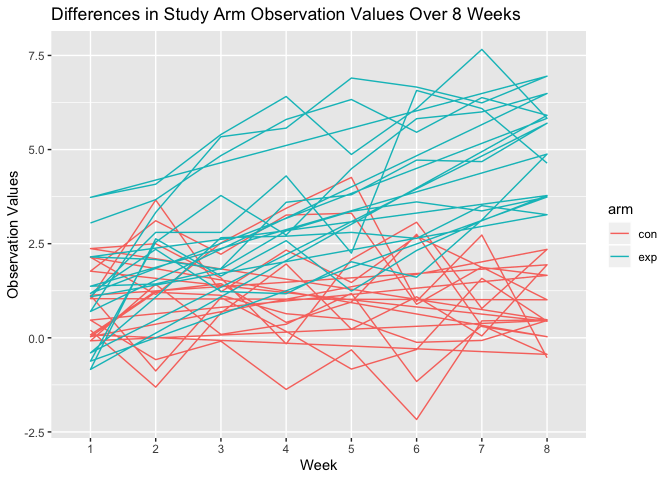
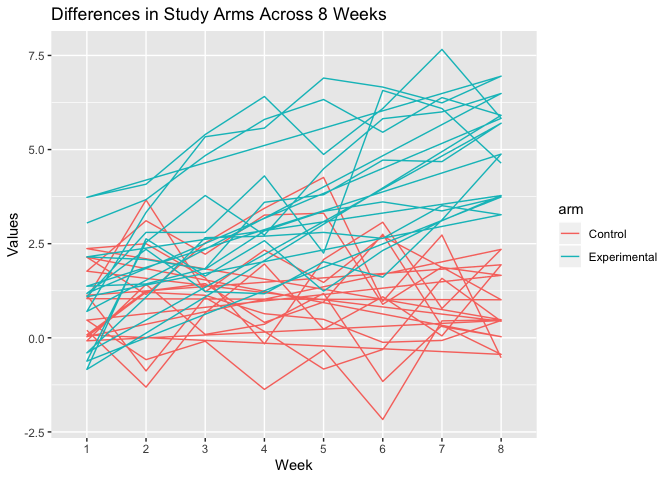
had a difficult time answering conceptual questions in problem 3, but done! committing after only running 1,000 times instead of 10,000 so need to rerun after this commit.

diff --git a/p8105_hw5_hf2379.md b/p8105_hw5_hf2379.md
@@ -5,6 +5,8 @@ Holly Finertie
 
 ## Problem 1
 
+Replace missing values in iris\_with\_missing data set.
+
 ``` r
 set.seed(10)
 
@@ -26,7 +28,15 @@ update_missing = function(x) {
 iris_no_missing = map_df(iris_with_missing, ~update_missing(.x))
 ```
 
+Successfully updated `iris_with_missing` data set so that NA entries for
+numerical variables were updated to the mean value and NA entries for
+character variables were updated to “virginica”. The new data set
+without NA values is called `iris_no_missing`.
+
 ## Problem 2
+
+Import csv files for control and experimental groups in longitudinal
+study. Then, show differences in values between arms across 8 weeks.
 
 ``` r
 read_file = function(x) {
@@ -41,7 +51,7 @@ source_df = tibble(
 
 longitudinal_study_df = source_df %>% 
   mutate(
-    load = map(source_df %>% pull(path), read_file)
+    load = map(path, read_file)
   ) %>% 
   select(file, load) %>% 
   unnest(cols = load) %>% 
@@ -53,7 +63,10 @@ longitudinal_study_df = source_df %>%
   ) %>% 
   separate(file, into = c("arm", "observation"), sep = "_" ) %>% 
   mutate(
-    observation = str_replace(observation, "\\.csv", "")
+    observation = str_replace(observation, "\\.csv", ""), 
+    arm = recode(arm, 
+           con = "Control", 
+           exp = "Experimental")
   )
  
 
@@ -62,10 +75,11 @@ study_plot = longitudinal_study_df %>%
   ggplot(aes(x = week, y = values, color = arm, group = arm)) + 
   geom_path() + 
   labs(
-    title = "Differences in Study Arm Observation Values Over 8 Weeks",
+    title = "Differences in Study Arms Across 8 Weeks",
     x = "Week",
-    y = "Observation Values"
-  )
+    y = "Values"
+  ) 
+  
 
 study_plot
 ```
@@ -75,45 +89,46 @@ study_plot
 #### Comment on Plot
 
 The mean value for the control arm stayed roughly the same around 1.02
-for 8 weeks while the mean value for the experiement arm increased to
-5.12 by week 8. Assuming an increase in values is a good thing, the
-experimental group improved compared to the control group over 8 weeks
-of treatment.
+for 8 weeks while the mean value for the experiement arm increased from
+1.14 in week 1 to 5.12 in week 8. Assuming an increase in values is a
+good thing, the experimental group improved compared to the control
+group over 8 weeks of treatment.
 
 ## Problem 3:
+
+Show relationship between effect size and power using simple linear
+regression.
 
 ``` r
 set.seed(10)
 
-sim_regression = function(n = 30, beta0 = 2, beta1, var = 50) {
+linear_regression = function(n = 30, beta0 = 2, beta1, var = 50) {
   
-  sim_data = tibble(
+  regression_data = tibble(
     x = rnorm(n, mean = 0, sd = 1),
     y = beta0 + beta1 * x + rnorm(n, 0, var^0.5)
   )
   
-  ls_fit = lm(y ~ x, data = sim_data)
+  lin_fit = lm(y ~ x, data = regression_data)
   
-  tidy(ls_fit)
-  
-  
-    
+  tidy(lin_fit)
+
 }
 
-sim_results_test = 
-  rerun(100, sim_regression(beta1 = 0)) %>% 
+regression_results_test = 
+  rerun(1000, linear_regression(beta1 = 0)) %>% 
   bind_rows() %>% 
   filter(term == "x") %>% 
   select(estimate, p.value)
 
-sim_results = 
-  tibble(beta1_input = c(0, 1, 2, 3, 4, 5, 6)) %>% 
+regression_results = 
+  tibble(beta1_true = c(0, 1, 2, 3, 4, 5, 6)) %>% 
   mutate(
-    output_lists = map(.x = beta1_input, ~rerun(100, sim_regression(beta1 = .x))),
+    output_lists = map(.x = beta1_true, ~rerun(1000, linear_regression(beta1 = .x))),
     estimate_dfs = map(output_lists, bind_rows)) %>% 
   unnest(estimate_dfs) %>% 
   filter(term == "x") %>% 
-  select(beta1_input, estimate, p.value) %>% 
+  select(beta1_true, estimate, p.value) %>% 
   mutate(
     reject = case_when(
       p.value > 0.05 ~ "No",
@@ -121,14 +136,13 @@ sim_results =
       TRUE     ~ ""
   ))
   
-
-plot1 = sim_results %>% 
-  group_by(beta1_input) %>% 
+power_and_effect = regression_results %>% 
+  group_by(beta1_true) %>% 
   summarize(
     n_sig = sum(reject == "Yes"), 
     p_sig = n_sig/n()
   ) %>% 
-  ggplot(aes(x = beta1_input, y = p_sig)) + 
+  ggplot(aes(x = beta1_true, y = p_sig)) + 
   geom_point() +
   labs(
     title = "Association Between Power and Effect Size", 
@@ -136,39 +150,67 @@ plot1 = sim_results %>%
     y = "Power"
   )
 
-plot1
+power_and_effect
 ```
 
 ![](p8105_hw5_hf2379_files/figure-gfm/problem3-1.png)<!-- -->
 
-As expected, power increases with effect size. When beta1 increases, the
-effect size increases and therefore it is “easier” to correctly reject
-the null hypothesis. This increases the power.
+Power is the probability of correctly rejecting the null hypothesis and
+is directly related to effect size. As effect size increases, it becomes
+“easier” to detect the difference between two groups and therefore
+“easier” to correctly reject the null hypothesis. For this reason, as
+effect size increases, so does the power. As expected, we see a positive
+relationship between effect size and power in the graph above. At the
+lowest value of beta (0), we only correctly reject the null about 5% of
+the time; however, at the highest value of beta (6), we correctly reject
+the null almost 100% of the time.
 
 ``` r
-plot2_data = sim_results %>% 
-  group_by(beta1_input) %>% 
+true_and_estimate = regression_results %>% 
+  group_by(beta1_true) %>% 
   mutate(
     mean_beta = mean(estimate)
   ) 
 
-plot3_data = sim_results %>% 
-  group_by(beta1_input) %>% 
+true_and_rejected = regression_results %>% 
+  group_by(beta1_true) %>% 
   filter(reject == "Yes") %>% 
   summarize(
     mean_beta = mean(estimate)
   ) 
 
-
-  ggplot(plot2_data, aes(x = beta1_input, y = mean_beta)) + 
+overlaid_plot = 
+  ggplot(true_and_estimate , aes(x = beta1_true, y = mean_beta)) + 
   geom_point() +
-  geom_point(data = plot3_data, color = "green") + 
+  geom_point(data = true_and_rejected, color = "green") + 
   labs(
-    title = "True Beta Value and Mean Estimated Beta Value
-    where Green = Rejected Samples and Black = N", 
+    title = "True Beta Value and Mean Estimated Beta Value", 
+    caption = "Please note: Green values show estimated values in rejected samples and black is all samples",
     x = "True Beta Value", 
-    y = "Mean Estimated Value"
+    y = "Mean Estimated Beta"
   )
+
+overlaid_plot
 ```
 
 ![](p8105_hw5_hf2379_files/figure-gfm/unnamed-chunk-1-1.png)<!-- -->
+
+#### Description of plot
+
+In the above plot, we mapped the true beta value on the x axis and two
+versions of the mean estimated beta on the y-axis: (1) the mean
+estimated beta across all samples in black and (2) the mean estimated
+beta in only the rejected samples in green. The mean estimated beta
+across all samples is a much better estimate of the true beta value.
+However, both versions are pretty accurate as the true beta value
+increases.
+
+#### Explanation
+
+As described above, lower effect sizes are more difficult to estimate
+due to low power. If we focus only on the sample that we rejected (green
+values), we expect that the estimated values for the smaller effect
+sizes will be less accurate compared to the estimated betas for the
+effect sizes. Again, this is because it is much harder to accurately
+estimate the true betas (differences between groups) when the effect
+size is small.
